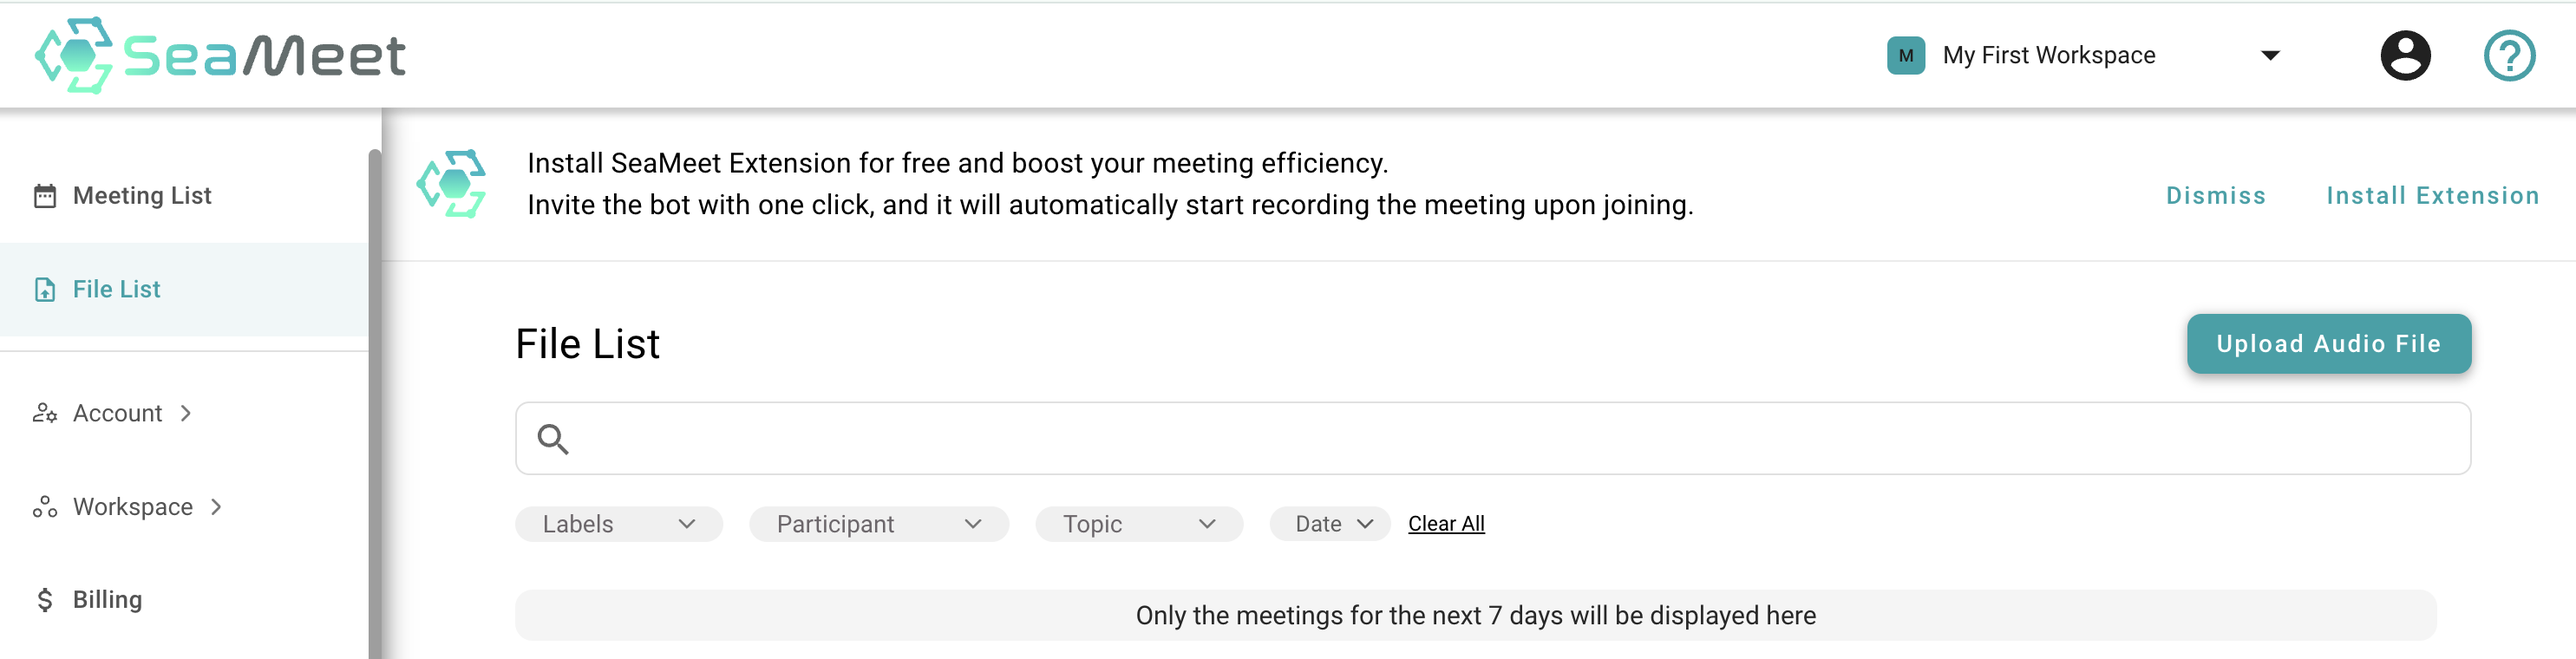
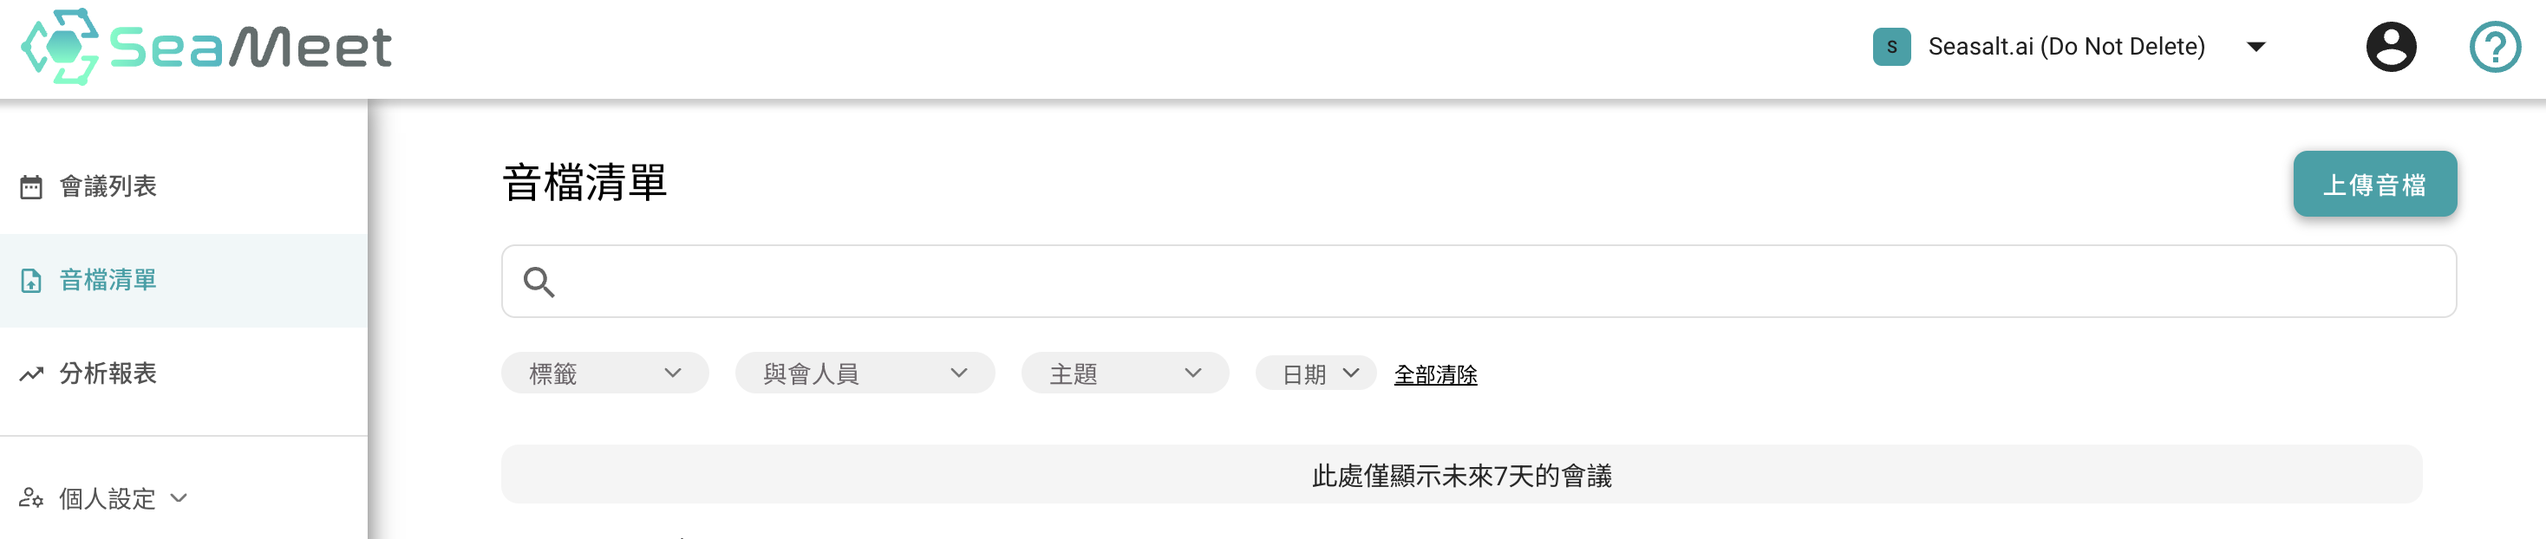
feat: zh wiki uploaded audio file

diff --git a/content/zh/seameet/seameet-manual/3-meeting-copilot/seameet-audio-upload.md b/content/zh/seameet/seameet-manual/3-meeting-copilot/seameet-audio-upload.md
@@ -1,75 +1,122 @@
 ---
-title: "SeaMeet Audio Upload"
+title: "SeaMeet 音檔上傳"
 description: ""
 date: 2024-11-21T08:48:57+00:00
 lastmod: 2024-11-21T08:48:57+00:00
 draft: false
 images: []
 menu:
-  seameet:
-    parent: "seameet-manual"
-url: /en/seameet/audio-upload/   
+   seameet:
+      parent: "seameet-manual"
+url: /zh/seameet/audio-upload/
 weight: 36
 toc: true
 ---
 
-## Unlock Seamless Transcriptions with SeaMeet Audio Upload
+## 使用 SeaMeet 音檔上傳功能，解鎖無縫轉錄體驗
 
-SeaMeet Copilot automatically transcribes scheduled meetings, but did you know you can also upload external audio files for transcription? This feature is perfect for meetings recorded outside the platform or other audio recordings requiring transcription.
+SeaMeet Copilot 可以自動轉錄已排定的會議，但您是否知道還可以上傳外部音檔進行轉錄？此功能非常適合轉錄平台外錄製的會議或其他需要轉錄的音訊記錄。
 
-With SeaMeet Copilot’s powerful transcription tools, you can upload and transcribe a wide range of audio file formats, including MP3, WAV, and M4A, among others.
-
----
-
-### **How to Upload Audio Files on SeaMeet**
-
-1. **Access the File List:**  
-   Navigate to the **File List** page and click the **Upload Audio File** button.
-
-2. **Select the Correct File Format:**  
-   SeaMeet supports multiple audio file formats, such as:
-    - **.mp3**
-    - **.wav**
-    - **.m4a**
-    - **.aac**
-    - **.flac**
-    - **.ogg**
-    - **.opus**
-
-3. **Adjust Upload Settings:**  
-   Before starting the transcription, customize the following settings for optimal results:
-    - **Language of the Audio:** Choose the appropriate language.
-    - **Speaker Count:** Specify the number of speakers in the recording.
-    - **Meeting Title:** Add a descriptive title for easy reference.
-
-4. **Set the Meeting Timestamp (Optional):**  
-   Enter the date and time of the recording, or let the system assign the current date and time by default.
+借助 SeaMeet Copilot 強大的轉錄工具，您可以上傳並轉錄各種音檔格式，包括 MP3、WAV 和 M4A 等。
 
 ---
 
-### **Start the Transcription Process**
+### 如何在 SeaMeet 上傳音檔
 
-Once settings are configured:
+1. 進入檔案列表： 
+   前往 **檔案列表** 頁面，點擊 **上傳音檔** 按鈕。
 
-- Click the **Start** button to begin transcription.
-- SeaMeet Copilot will automatically process the file, generating a detailed transcript and a concise meeting summary.
+<center>
 
-When transcription is complete, return to your **File List** to access the transcript and summary.
+<img src="/images/seameet-zh/seameet-audio-upload/file-list-ui.png" alt="SeaMeet 檔案列表介面"/>
+
+</center>
+
+2. 選擇正確的音檔格式：
+   SeaMeet 支援多種音檔格式，包括：
+   - **.mp3**
+   - **.wav**
+   - **.m4a**
+   - **.aac**
+   - **.flac**
+   - **.ogg**
+   - **.opus**
+
+3. **調整上傳設定：**  
+   在開始轉錄之前，您可以自訂以下設定以獲得最佳結果：
+   - **音檔語言：** 選擇正確的語言。
+   - **講者數量：** 指定錄音中的講者數量。
+   - **會議標題：** 添加描述性標題以便於識別。
+
+<center>
+
+<img src="/images/seameet-zh/seameet-audio-upload/transcription-setting.png" alt="SeaMeet 轉錄設定介面"/>
+
+</center>
+
+4. **設置會議時間戳（選擇性）：**  
+   輸入錄音的日期和時間，或讓系統自動分配當前日期和時間。
+
+<center>
+
+<img src="/images/seameet-zh/seameet-audio-upload/time-setting.png" alt="SeaMeet 會議時間設定介面"/>
+
+</center>
 
 ---
 
-### **Why Use SeaMeet for Audio Transcriptions?**
+### 開始轉錄流程
 
-SeaMeet treats uploaded audio files just like its scheduled meetings, offering:
+完成設定後：
 
-- **Editing Capabilities:** Fine-tune the transcript and summary.
-- **Action Items:** Add and track key takeaways.
-- **Collaboration Tools:** Share files with your team or integrate with Google Docs for streamlined workflows.
+- 點擊 **開始** 按鈕，啟動轉錄流程。
+- SeaMeet Copilot 將自動處理音檔，生成詳細的轉錄內容和簡潔的會議摘要。
 
-This feature is ideal for transcribing external recordings or unscheduled meetings, ensuring no conversation goes undocumented.
+轉錄完成後，回到 **檔案列表** 頁面即可查看轉錄內容和摘要。
+
+<center>
+
+<img src="/images/seameet-zh/seameet-audio-upload/loaded-meeting.png" alt="SeaMeet 上傳音檔錄製介面"/>
+
+</center>
 
 ---
 
-### **Boost Productivity with SeaMeet Copilot**
+### 為什麼選擇 SeaMeet 進行音檔轉錄？
 
-SeaMeet’s audio upload feature transforms any recording into actionable insights, enhancing collaboration and productivity. Start uploading your audio files today and experience seamless transcription with SeaMeet!  
+SeaMeet 將上傳的音檔視為常規會議記錄，並提供以下功能：
+
+- **會議摘要：** 微調轉錄內容和摘要。
+
+<center>
+
+<img width="80%" src="/images/seameet-zh/seameet-audio-upload/summary.png" alt="SeaMeet 會議摘要介面"/>
+
+</center>
+
+- **待辦事項與會議主題：** 添加並跟蹤待辦事項及會議主題。
+
+<center>
+
+<img width="80%" src="/images/seameet-zh/seameet-audio-upload/discussed-topic.png" alt="SeaMeet 會議主題介面"/>
+
+</center>
+
+- **協作工具：** 與團隊共享文件或與 Google Docs 集成，簡化工作流程。
+
+
+音檔上傳功能特別適合轉錄外部音訊記錄或未通過 SeaMeet 排定的會議，確保每次對話都被妥善記錄。
+
+---
+
+### **說話人識別**
+
+說話人識別是一項幫助 SeaMeet 用戶優化轉錄體驗的功能。
+
+通過啟用講者識別功能，用戶可以利用 Seasalt.ai 在音訊分軌技術上的專業知識，為音檔中的不同講者添加標籤，進一步提升轉錄結果的準確性。
+
+---
+
+### 提升效率，使用 SeaMeet Copilot
+
+SeaMeet 的音檔上傳功能將任何錄音轉化為可執行的洞察，增強協作和生產力。立即上傳您的音檔，體驗 SeaMeet 提供的無縫轉錄服務！
